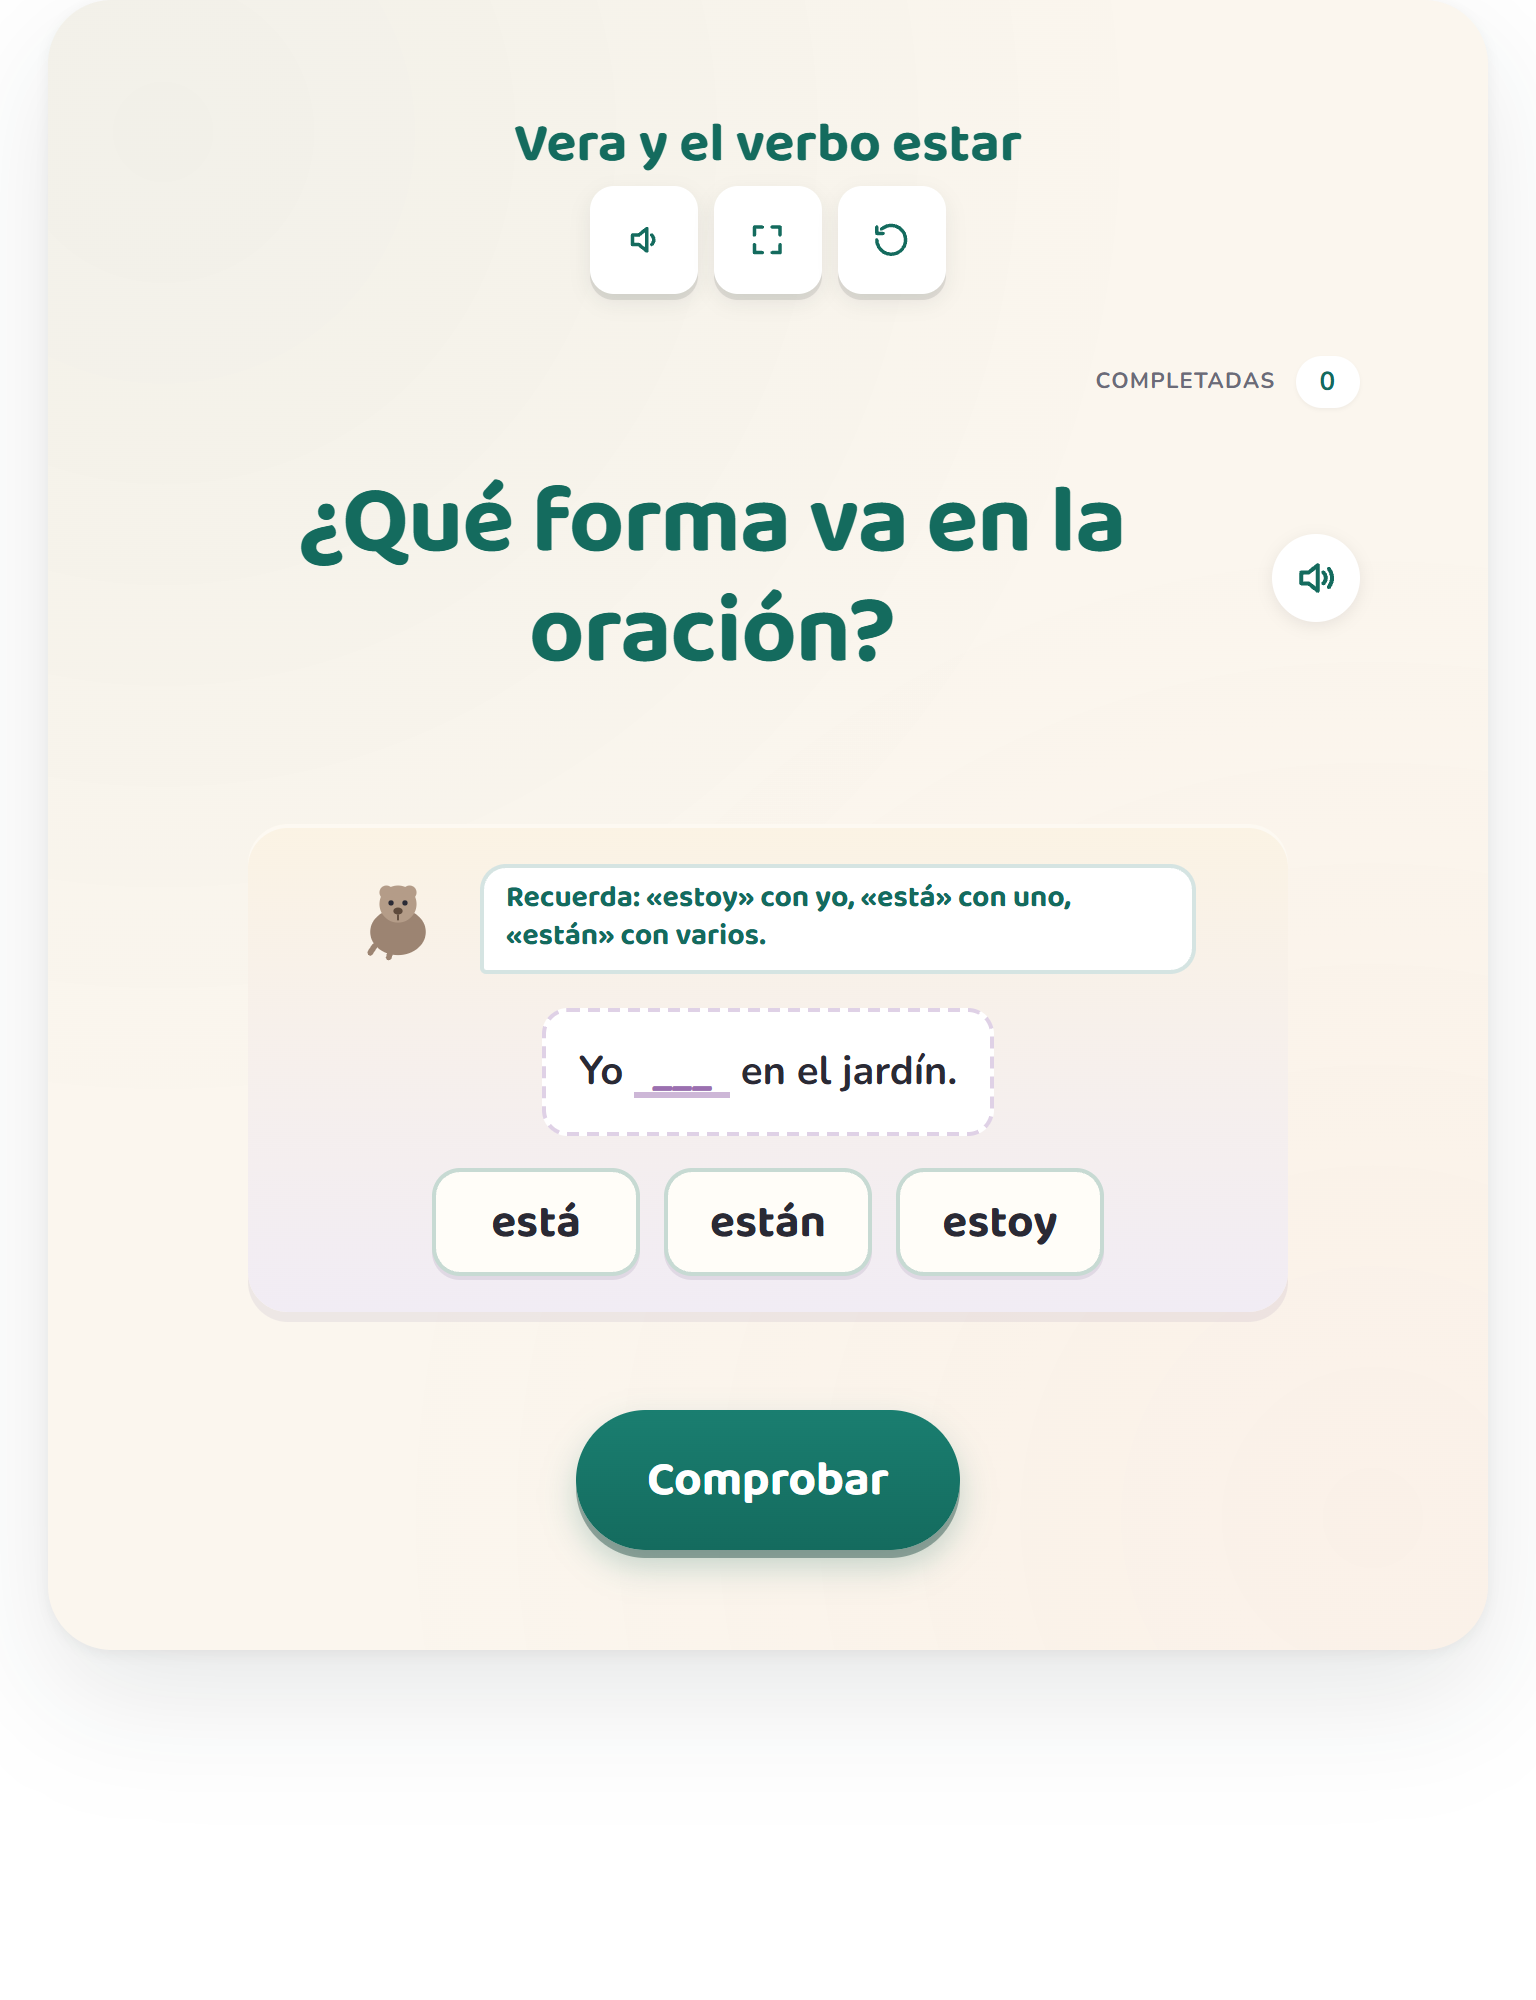
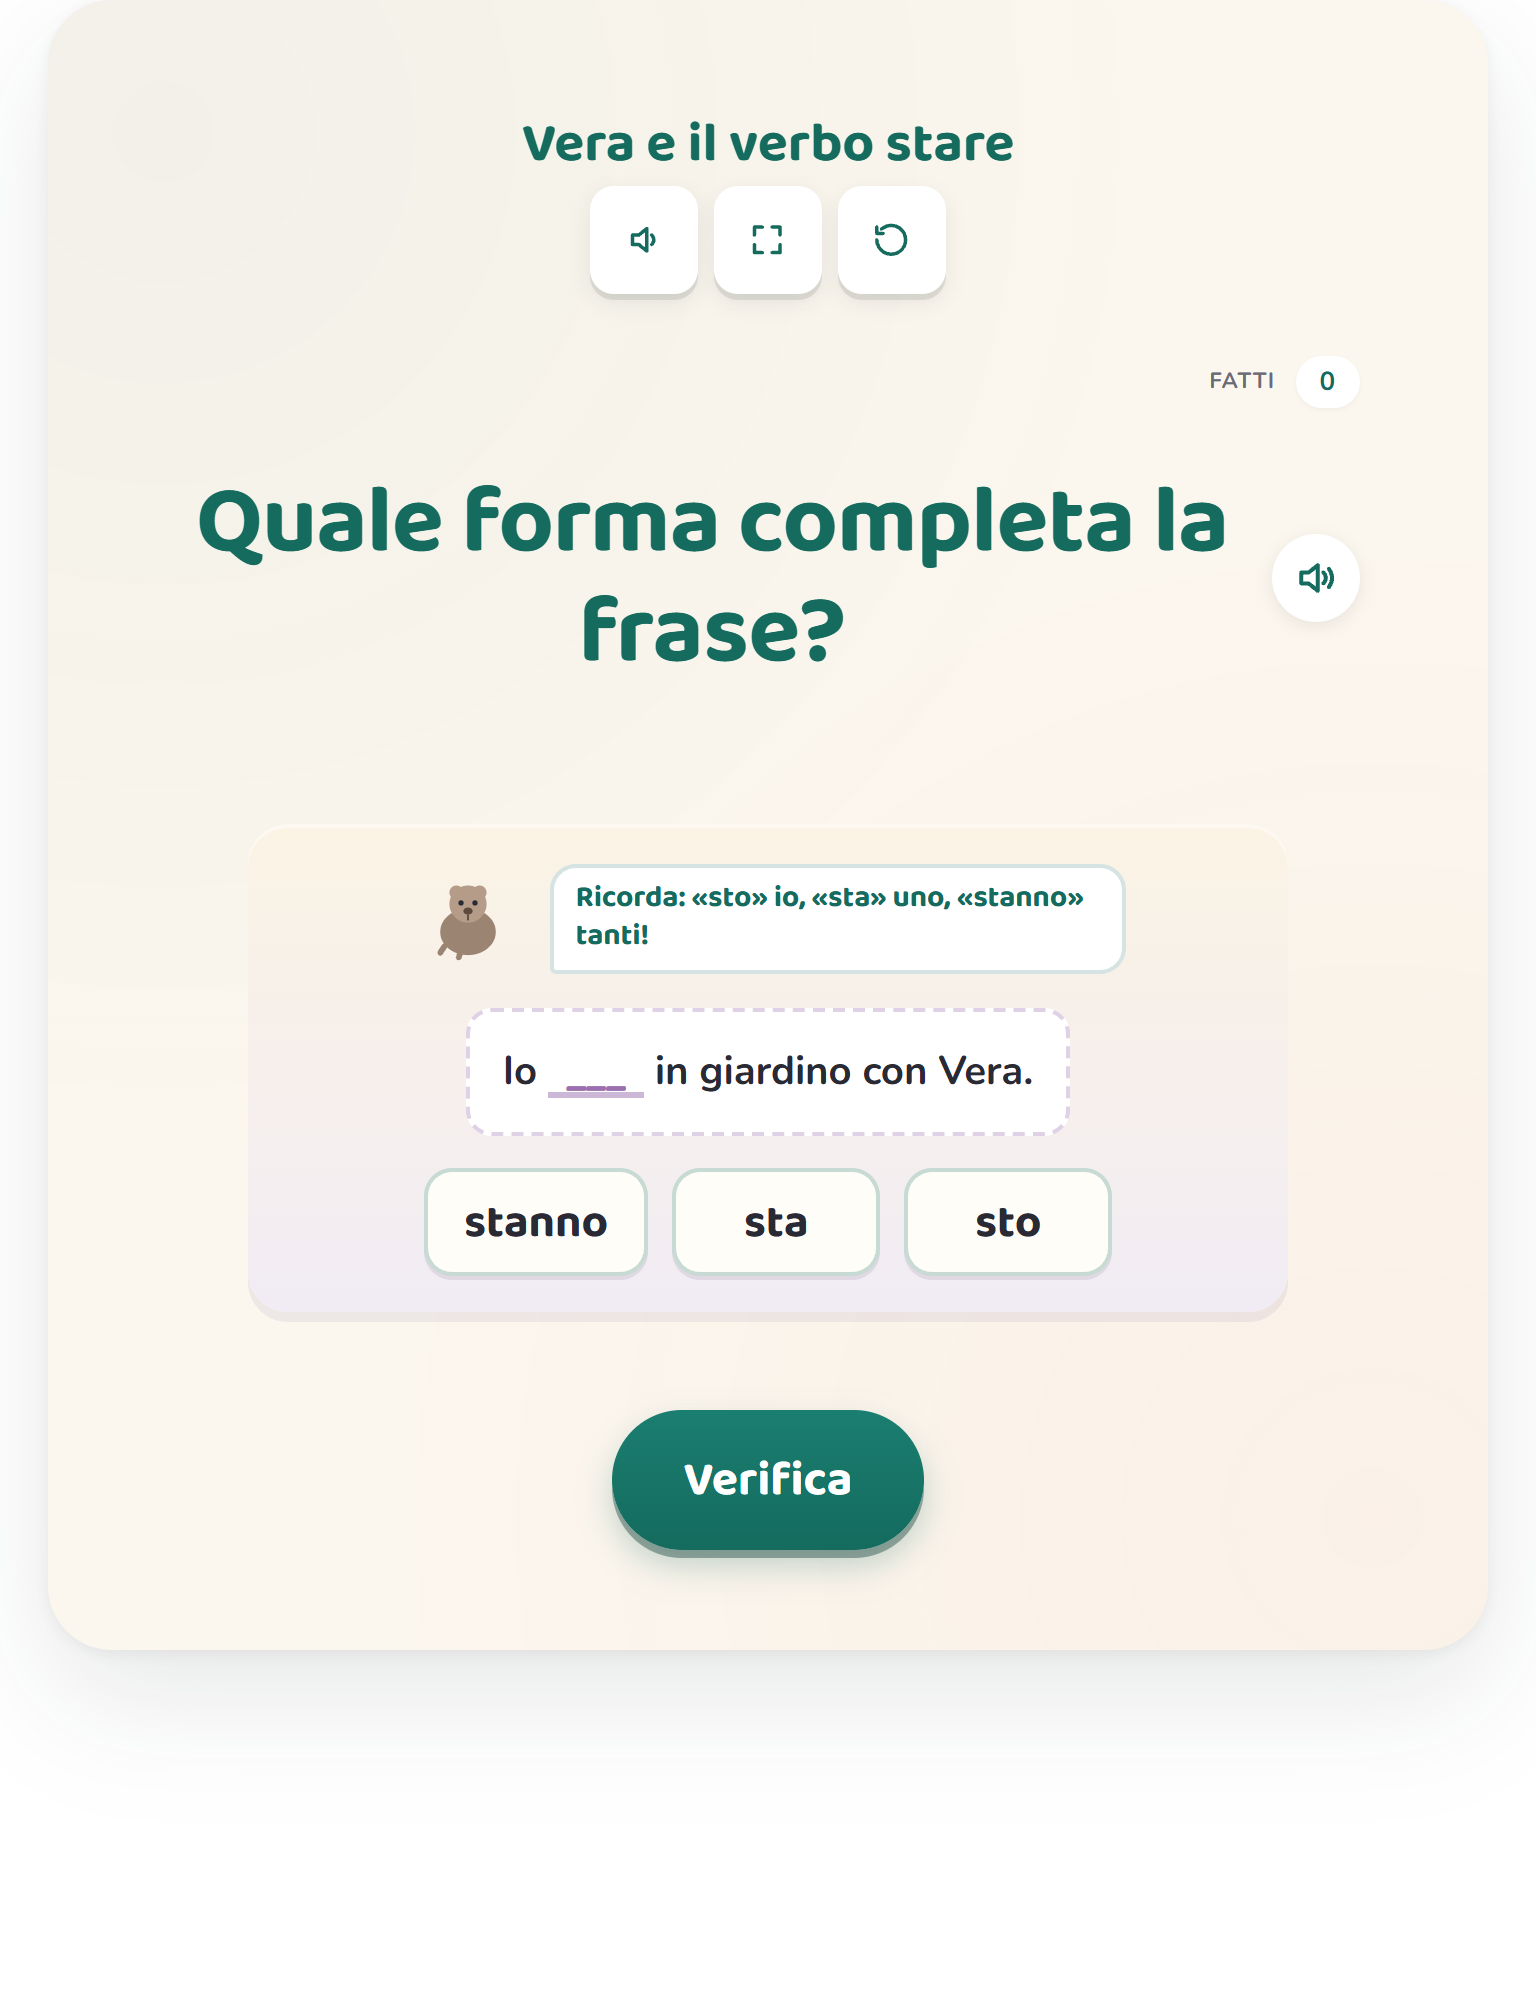
[FEATURE][I18N][IT] vera-verb-match #28 — Vera e il verbo stare (classe seconda)
Italian (it) second-batch fan-out #28 — vera-verb-match.be-agreement.l-1-1-c, the
8th it LITERACY activity. Pure activity-layer fan-out over the (already generalized)
be-agreement engine (EN + de/es/fr/pt live). Vera the vole shows a sentence with a
gap + 3 cards (the copula forms); the child taps the form that agrees with the
subject (concordanza soggetto-verbo). 8 rounds, node-eval GREEN.

Rebuilt for the Indicazioni nazionali (riflessione linguistica, classe seconda).

⭐⭐ THE COPULA FORK → STARE (sto/sta/stanno) — both native experts DECISIVE:
- Italian «essere» is STRUCTURALLY IMPOSSIBLE for this 3-card design: io sono AND
  loro sono are IDENTICAL (homographic + homophonic) → a clean io/uno/tanti triple
  has two identical cards. The workaround (è/sono/siamo) would actively MISLEAD the
  child — it mixes a NUMBER question (è vs sono) with a PERSON question (sono vs
  siamo, both plural): a 7-year-old told «è per uno, sono per tanti» reasons «noi =
  tanti → sono» and gets «siamo» wrong on a third of the cards.
- STARE gives 3 clean distinct forms mapping to io/uno/tanti; it's a first-taught
  irregular verb («Come stai?»/«Sto bene»/«Sta in giardino»); and it's the direct
  cognate of the es/pt estar (keeps the activity structurally identical family-wide).
- ⚠ STARE FENCE (linguist): LOCATION + health («sta bene») ONLY — never state-
  adjectives («sta stanco» is a Spanishism; standard is «è stanco»). All 8 rounds
  are location or «sta bene».
[…]

diff --git a/mini tools/vera-verb-match-activity.js b/mini tools/vera-verb-match-activity.js
@@ -18,13 +18,18 @@
   var FORMS_FR = ['suis', 'est', 'sont'];
   var FORMS_ES = ['estoy', 'está', 'están'];
   var FORMS_PT = ['estou', 'está', 'estão'];
-  var FORMS_L10N = { de: FORMS_DE, fr: FORMS_FR, es: FORMS_ES, pt: FORMS_PT };
+  /* it (#28 fan-out): ⭐⭐ THE COPULA = STARE (sto/sta/stanno) — «essere» is structurally impossible (io sono ===
+     loro sono → two identical cards; è/sono/siamo would MISLEAD, mixing number vs person). STARE = 3 clean distinct
+     forms io/uno/tanti, the estar-cognate, a first-taught irregular verb. ⚠ FENCE: rounds are LOCATION + «sta bene»
+     ONLY (never state-adjectives — «sta stanco» is a Spanishism; standard = «è stanco»). */
+  var FORMS_IT = ['sto', 'sta', 'stanno'];
+  var FORMS_L10N = { de: FORMS_DE, fr: FORMS_FR, es: FORMS_ES, pt: FORMS_PT, it: FORMS_IT };
   function vvmForms() { return FORMS_L10N[LANG] || Core.FORMS; }
   function vvmGrade(round, id) { return vvmForms()[id] === round.correct; }
 
   function speak(text) {
-    try { if (global.LCSAudio && global.LCSAudio.speak) { global.LCSAudio.speak({ type: 'word', text: text, lang: (LANG === 'es' ? 'es-MX' : LANG === 'pt' ? 'pt-BR' : LANG), rate: 0.95 }); return; }
-      if (global.speechSynthesis && global.SpeechSynthesisUtterance) { var u = new global.SpeechSynthesisUtterance(text); u.rate = 0.95; u.lang = LANG === 'de' ? 'de-DE' : LANG === 'fr' ? 'fr-FR' : LANG === 'es' ? 'es-MX' : LANG === 'pt' ? 'pt-BR' : 'en-US'; global.speechSynthesis.cancel(); global.speechSynthesis.speak(u); } } catch (e) {}
+    try { if (global.LCSAudio && global.LCSAudio.speak) { global.LCSAudio.speak({ type: 'word', text: text, lang: (LANG === 'es' ? 'es-MX' : LANG === 'pt' ? 'pt-BR' : LANG === 'it' ? 'it-IT' : LANG), rate: 0.95 }); return; }
+      if (global.speechSynthesis && global.SpeechSynthesisUtterance) { var u = new global.SpeechSynthesisUtterance(text); u.rate = 0.95; u.lang = LANG === 'de' ? 'de-DE' : LANG === 'fr' ? 'fr-FR' : LANG === 'es' ? 'es-MX' : LANG === 'pt' ? 'pt-BR' : LANG === 'it' ? 'it-IT' : 'en-US'; global.speechSynthesis.cancel(); global.speechSynthesis.speak(u); } } catch (e) {}
   }
   function shuffle(arr) { var a = arr.slice(), i, j, t; for (i = a.length - 1; i > 0; i--) { j = Math.floor(Math.random() * (i + 1)); t = a[i]; a[i] = a[j]; a[j] = t; } return a; }
 
@@ -44,13 +49,13 @@
     id: 'vera-verb-match-activity',
 
     strings: {
-      title: { en: "Vera's Verb Match", de: 'Veras Verb-Werkstatt', fr: 'Vera et le verbe être', es: 'Vera y el verbo estar', pt: 'Vera e o verbo estar' },
-      instruction: { en: 'Tap am, is, or are to match the subject.', de: 'Tippe die richtige Form: bin, ist oder sind.', fr: 'Touche la bonne forme : suis, est ou sont.', es: 'Toca la forma correcta: estoy, está o están.', pt: 'Toque na forma certa: estou, está ou estão.' },
-      prompt: { en: 'Tap the verb that matches the subject.', de: 'Welche Form passt in den Satz?', fr: 'Quelle forme va dans la phrase ?', es: '¿Qué forma va en la oración?', pt: 'Qual forma completa a frase?' },
-      veraIntro: { en: 'AM goes with I, IS with one, ARE with many!', de: 'Merke: „bin" bei ich, „ist" bei einem, „sind" bei vielen!', fr: 'je → suis, un seul → est, plusieurs → sont', es: 'Recuerda: «estoy» con yo, «está» con uno, «están» con varios.', pt: 'Lembre: “estou” (eu), “está” (um), “estão” (vários).' },
-      hintPick: { en: 'Is the subject I, one, or many? Pick am, is, or are.', de: 'Tippe zuerst auf bin, ist oder sind.', fr: 'Touche d’abord suis, est ou sont.', es: 'Toca primero estoy, está o están.', pt: 'Leia a frase e toque em uma forma!' },
-      hintWrong: { en: 'Read the subject again — I → am, one → is, many → are.', de: 'Schau aufs Subjekt: einer oder viele? Probier es noch einmal!', fr: 'Regarde le sujet : un seul ou plusieurs ? Essaie encore !', es: 'Mira el sujeto: ¿uno o varios? ¡Inténtalo de nuevo!', pt: 'Olhe o sujeito de novo: um ou vários? Tente outra vez!' },
-      win: { en: 'Yes! The verb matches the subject. 🌿', de: 'Super gemacht! Alle Sätze sind richtig. 🌿', fr: 'Bravo ! Toutes les phrases sont justes. 🌿', es: '¡Muy bien! Todas las oraciones están bien. 🌿', pt: 'Isso! O verbo combina com o sujeito. 🌿' }
+      title: { en: "Vera's Verb Match", de: 'Veras Verb-Werkstatt', fr: 'Vera et le verbe être', es: 'Vera y el verbo estar', pt: 'Vera e o verbo estar', it: 'Vera e il verbo stare' },
+      instruction: { en: 'Tap am, is, or are to match the subject.', de: 'Tippe die richtige Form: bin, ist oder sind.', fr: 'Touche la bonne forme : suis, est ou sont.', es: 'Toca la forma correcta: estoy, está o están.', pt: 'Toque na forma certa: estou, está ou estão.', it: 'Tocca la forma giusta: sto, sta, stanno.' },
+      prompt: { en: 'Tap the verb that matches the subject.', de: 'Welche Form passt in den Satz?', fr: 'Quelle forme va dans la phrase ?', es: '¿Qué forma va en la oración?', pt: 'Qual forma completa a frase?', it: 'Quale forma completa la frase?' },
+      veraIntro: { en: 'AM goes with I, IS with one, ARE with many!', de: 'Merke: „bin" bei ich, „ist" bei einem, „sind" bei vielen!', fr: 'je → suis, un seul → est, plusieurs → sont', es: 'Recuerda: «estoy» con yo, «está» con uno, «están» con varios.', pt: 'Lembre: “estou” (eu), “está” (um), “estão” (vários).', it: 'Ricorda: «sto» io, «sta» uno, «stanno» tanti!' },
+      hintPick: { en: 'Is the subject I, one, or many? Pick am, is, or are.', de: 'Tippe zuerst auf bin, ist oder sind.', fr: 'Touche d’abord suis, est ou sont.', es: 'Toca primero estoy, está o están.', pt: 'Leia a frase e toque em uma forma!', it: 'Leggi la frase e tocca una forma!' },
+      hintWrong: { en: 'Read the subject again — I → am, one → is, many → are.', de: 'Schau aufs Subjekt: einer oder viele? Probier es noch einmal!', fr: 'Regarde le sujet : un seul ou plusieurs ? Essaie encore !', es: 'Mira el sujeto: ¿uno o varios? ¡Inténtalo de nuevo!', pt: 'Olhe o sujeito de novo: um ou vários? Tente outra vez!', it: 'Guarda il soggetto: io, uno o tanti? Riprova!' },
+      win: { en: 'Yes! The verb matches the subject. 🌿', de: 'Super gemacht! Alle Sätze sind richtig. 🌿', fr: 'Bravo ! Toutes les phrases sont justes. 🌿', es: '¡Muy bien! Todas las oraciones están bien. 🌿', pt: 'Isso! O verbo combina com o sujeito. 🌿', it: 'Sì! Il verbo va d’accordo con il soggetto. 🌿' }
     },
     defaults: {},
 

diff --git a/frontend/app/[locale]/activities/[slug]/page.tsx b/frontend/app/[locale]/activities/[slug]/page.tsx
@@ -80,7 +80,7 @@ const GRADE_OVERRIDE: Record<string, Record<string, string>> = {
   'sentence-builder.build-a-sentence.l-1-1-j': { de: '2', fr: '2', es: '2', pt: '2', it: '2' },  // Satzbau/Wortreihenfolge reorder task → DE Klasse 2 (mastery by end of Klasse 2); FR CE1 (l'accord dans le groupe nominal — le chat noir — = attendu CE1, past CP word-order-only). MX 2.º: construcción de oraciones + orden de palabras + concordancia (el perro café / la flor roja) + mayúscula/punto = trabajo metalingüístico de 2.º (1.º es decodificación); espeja de/fr. PT 2º ano: construção de frases + ordem das palavras + concordância (o cachorro marrom / a flor roxa) + maiúscula/ponto = análise linguística de 2º ano (1º é decodificação); espelha es/fr/de. IT classe seconda: costruzione della frase + ordine delle parole + concordanza articolo-nome-aggettivo (il cane marrone / il fiore viola) + maiuscola/punto = riflessione linguistica di 2ª nelle Indicazioni nazionali (in 1ª = decodifica); rispecchia de/fr/es/pt. STRAND «Riflessione linguistica» auto (Language.it, #20; NO override)
   'pronoun.case.l-1-1-d': { de: '3', fr: '3', es: '3', pt: '3', it: '3' },                  // case-correct pronoun-form choice (er/ihn) → DE Klasse 3 (Fall-arbeit is Klasse 3/4); FR CE2 (les pronoms sujets = CE1, but the COD/object form me/te/le is the CE2 attendu — the activity's central difficulty). MX 3.º: los pronombres de sujeto son 2.º, pero el contraste sujeto/objeto-clítico (Mamá me ve) + posesivo es habilidad de 3.º (misma lógica que fr CE2/de Klasse 3); espeja de/fr. PT 3º ano: o contraste caso reto/oblíquo (Eu/Mim, me/eu) + possessivo é habilidade de 3º ano (EF35LP14 — pronomes como recurso coesivo); os pronomes de sujeito são 2º, mas o contraste de caso é 3º; espelha es/fr/de. IT classe terza: il contrasto di caso pronominale (soggetto io / complemento mi / possessivo mio, «Luca e io» non «Luca e me») è riflessione linguistica di 3ª nelle Indicazioni nazionali (i pronomi soggetto sono 2ª, il contrasto di caso è 3ª); FIRST it grade-3; rispecchia de/fr/es/pt. STRAND «Riflessione linguistica» auto (Language.it, #20; NO override)
   'olive-kind-of.category-attribute.l-1-5-b': { de: '2', fr: '2', es: '2', pt: '2', it: '2' },  // IT classe seconda: subsumere un referente concreto sotto un iperonimo (categorizzare) = competenza di 2ª (in 1ª = nominare il concreto); rispecchia de/fr/es/pt. // Oberbegriff/Hyperonym abstraction → DE Klasse 2 (EN Grade 1 placement doesn't transfer); FR CE1 (catégoriser / le mot générique vs particulier = attendu CE1, réflexif, past CP naming). MX 2.º: subsumir un referente concreto en su término general (categorizar/agrupar) es competencia de 2.º NEM (1.º es nombrar concreto); espeja de/fr
-  'vera-verb-match.be-agreement.l-1-1-c': { de: '2', fr: '2', es: '2', pt: '2' },  // reflective Subjekt-Verb-Kongruenz (bin/ist/sind) → DE Klasse 2 (K-1 kids speak it; the grammar task is Klasse 2); FR CE1 (l'accord sujet-verbe / conjuguer être au présent = attendu CE1, réflexif, past CP oral use); ES 2.º (concordancia sujeto-verbo con estar = reflexión metalingüística 2.º NEM; kids speak estoy/está/están at 1.º)
+  'vera-verb-match.be-agreement.l-1-1-c': { de: '2', fr: '2', es: '2', pt: '2', it: '2' },  // IT classe seconda: i bambini USANO le forme già in 1ª, ma la concordanza consapevole soggetto-verbo (sto/sta/stanno) = riflessione metalinguistica di 2ª; rispecchia de/fr/es/pt. (Fork: STARE non ESSERE — io sono===loro sono collide.) // reflective Subjekt-Verb-Kongruenz (bin/ist/sind) → DE Klasse 2 (K-1 kids speak it; the grammar task is Klasse 2); FR CE1 (l'accord sujet-verbe / conjuguer être au présent = attendu CE1, réflexif, past CP oral use); ES 2.º (concordancia sujeto-verbo con estar = reflexión metalingüística 2.º NEM; kids speak estoy/está/están at 1.º)
   'hazel-word-bridge.joining-words.l-1-1-g': { de: '3', fr: '3', es: '3', pt: '3' },  // selection-by-meaning across 4 Bindewörter incl. causal „denn" + Pflichtkomma → DE Klasse 3; FR: coordination + car + comma-before-mais/car → CE2; ES 3.º (selección por sentido de 4 nexos incl. causal porque + coma-ante-pero = 3.º NEM Lenguajes)
   'cleo-packing-list.series-commas.l-1-2-b': { de: '3', fr: '3', es: '3', pt: '3' },  // Komma bei Aufzählung = first comma rule, DE Klasse 3; FR: la virgule d'énumération = premier attendu interne → CE2; ES 3.º (la coma en enumeraciones = primera regla de coma; 1.º-2.º solo punto/mayúscula)
   'robin-mirror.reflexive.l-2-1-c': { de: '3', fr: '3', es: '3', pt: '3' },        // Reflexivpronomen → DE Klasse 3; FR: le pronom réfléchi qui varie avec le sujet = consolidation CE2; ES 3.º (pronombres reflexivos como categoría metalingüística = 3.º NEM; uso oral desde preescolar)
@@ -547,7 +547,7 @@ export default async function ActivityPage({ params }: { params: PageParams }) {
   // applied here to the iframe-loaded wrapper URL (the only un-busted
   // link in the activity-page → mini-tool chain). The wrapper reads
   // only `activity` / `lang` / `embed` params; `v` is harmless to it.
-  const ACTIVITY_WRAPPER_VERSION = '9.480';
+  const ACTIVITY_WRAPPER_VERSION = '9.481';
 
   const iframeSrc =
     `/mini-tools/${row.tool}.html?v=${ACTIVITY_WRAPPER_VERSION}` +

diff --git a/mini tools/vera-verb-match-activity.html b/mini tools/vera-verb-match-activity.html
@@ -17,7 +17,7 @@
        NOTE: bump ?v=N on EVERY change to vera-verb-match-activity.js / be-agreement-core.js (§A.13.42). -->
   <script src="/mini-tools/lcs-shell.js?v=5"></script>
   <script src="/mini-tools/be-agreement-core.js?v=1"></script>
-  <script src="/mini-tools/vera-verb-match-activity.js?v=5"></script>
+  <script src="/mini-tools/vera-verb-match-activity.js?v=6"></script>
   <script>
     LCS.mount(VeraVerbMatchActivity, { mount: '#lcs-root' });
   </script>
